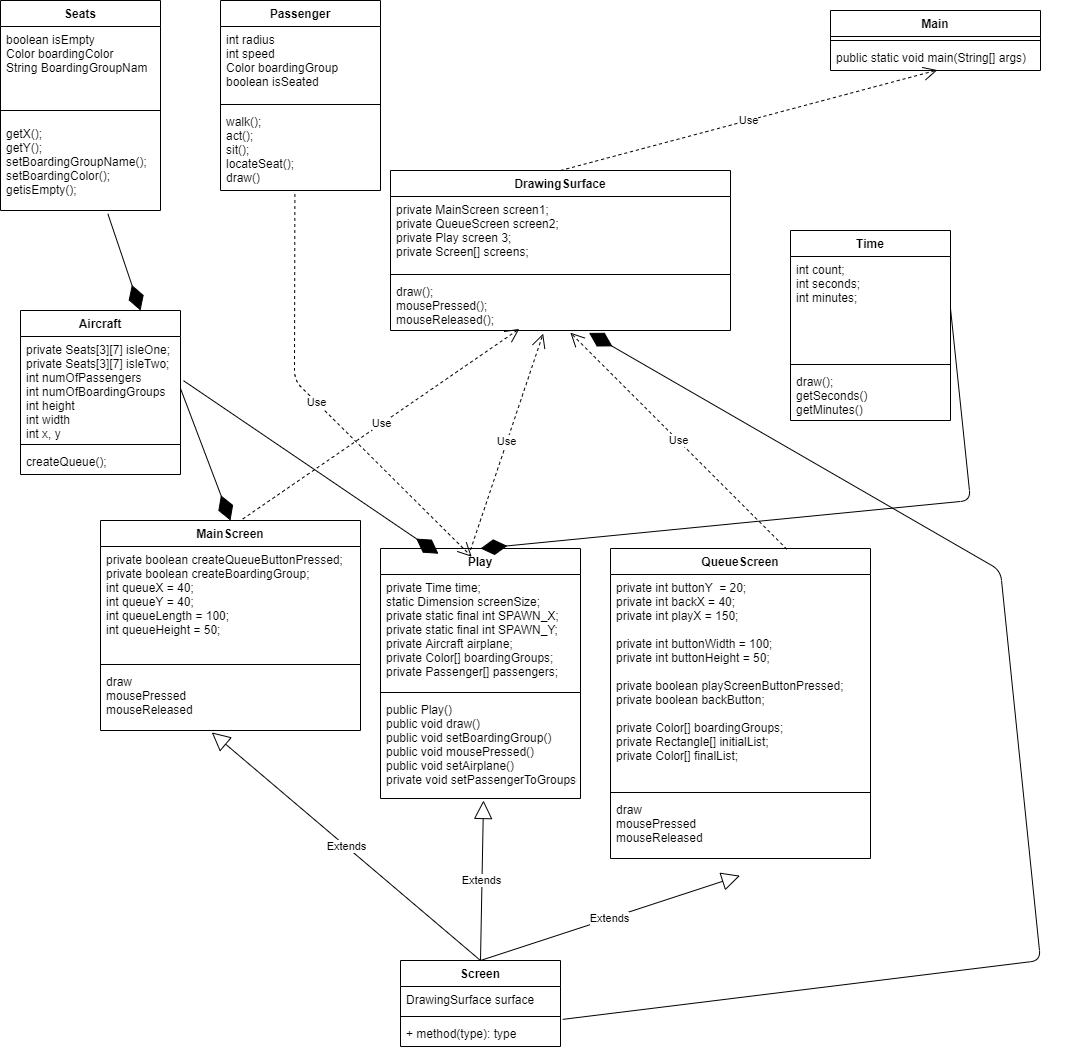
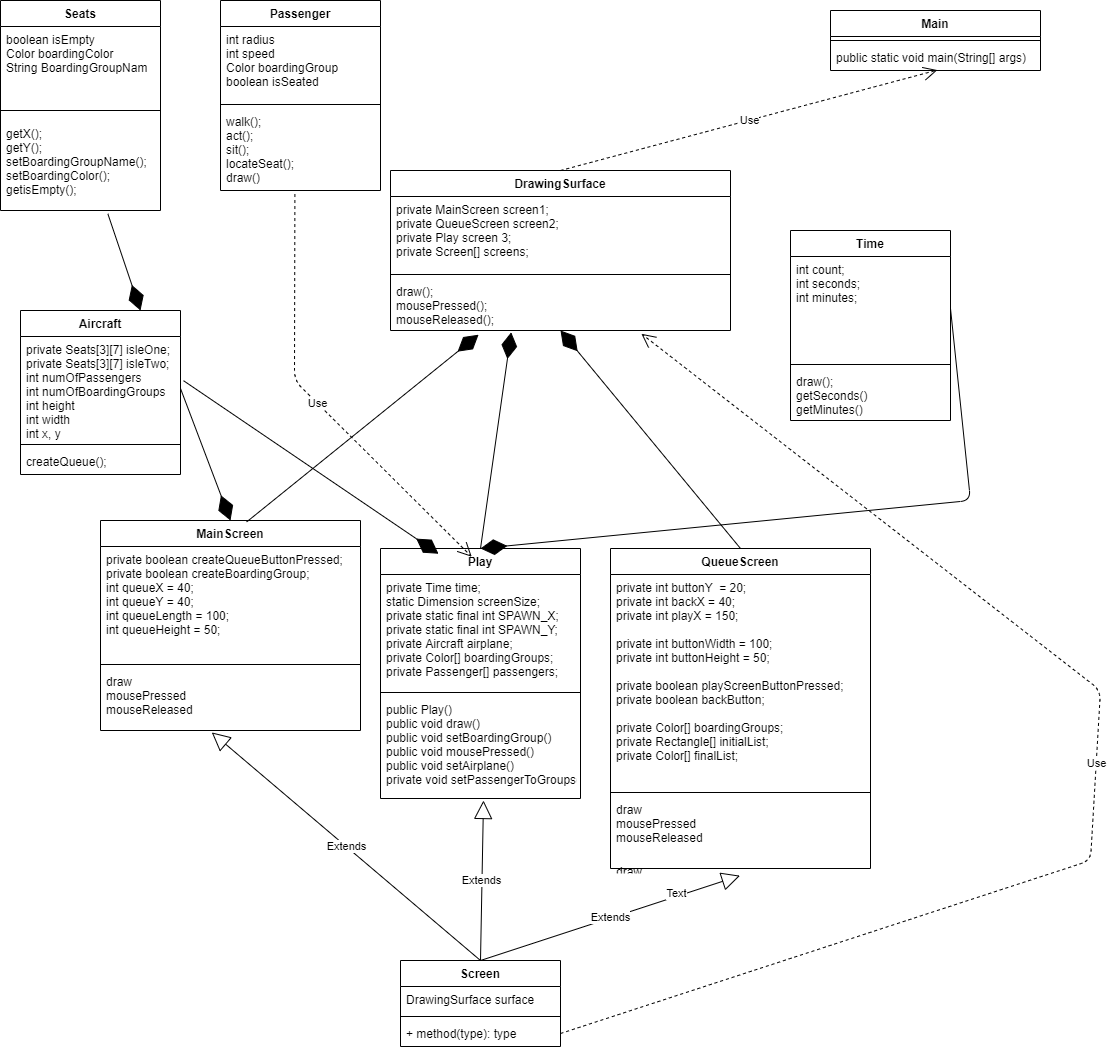
Commented on code and updated UML

diff --git a/BoardingSimulator/src/Passenger.java b/BoardingSimulator/src/Passenger.java
@@ -13,7 +13,7 @@ import java.util.concurrent.*;
  *
  */
 public class Passenger extends PApplet{
-	//a
+	
 	private int x, y;
 	private final int RADIUS = 50;
 	private int  speed;
